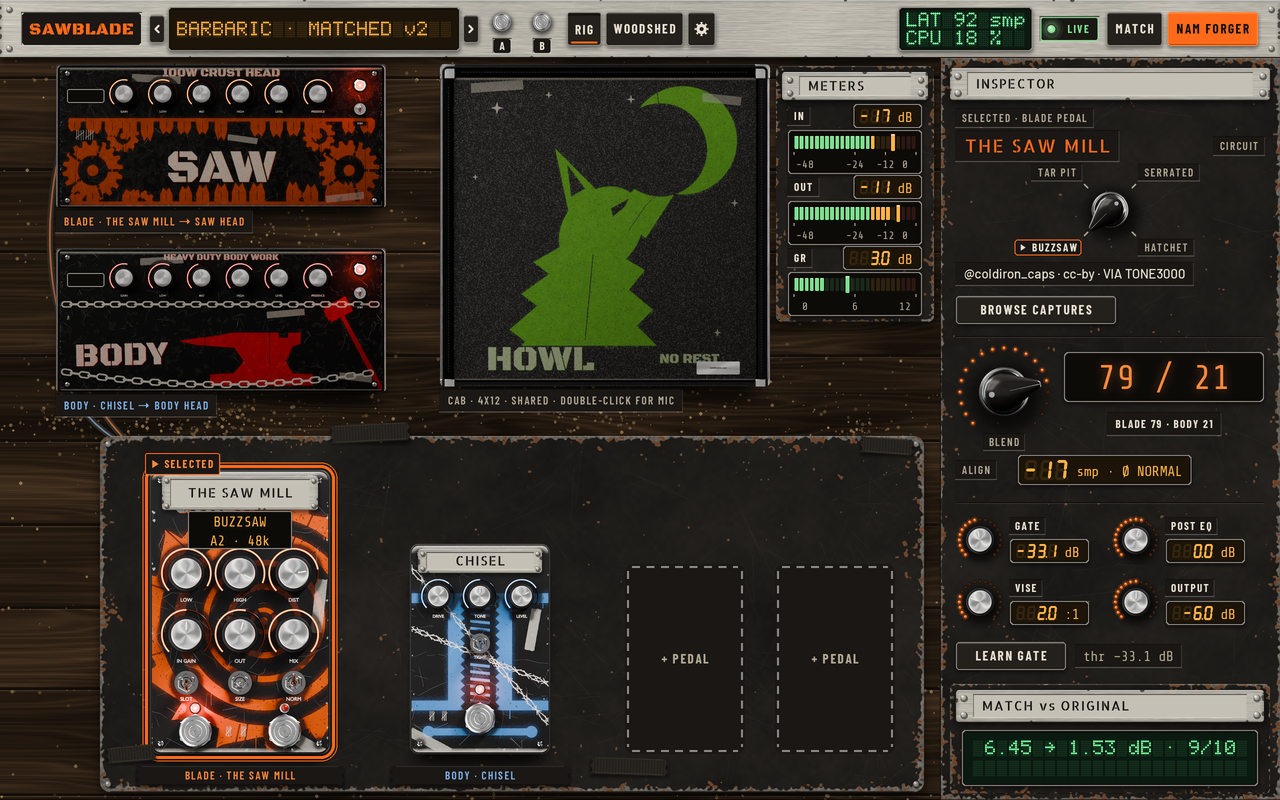
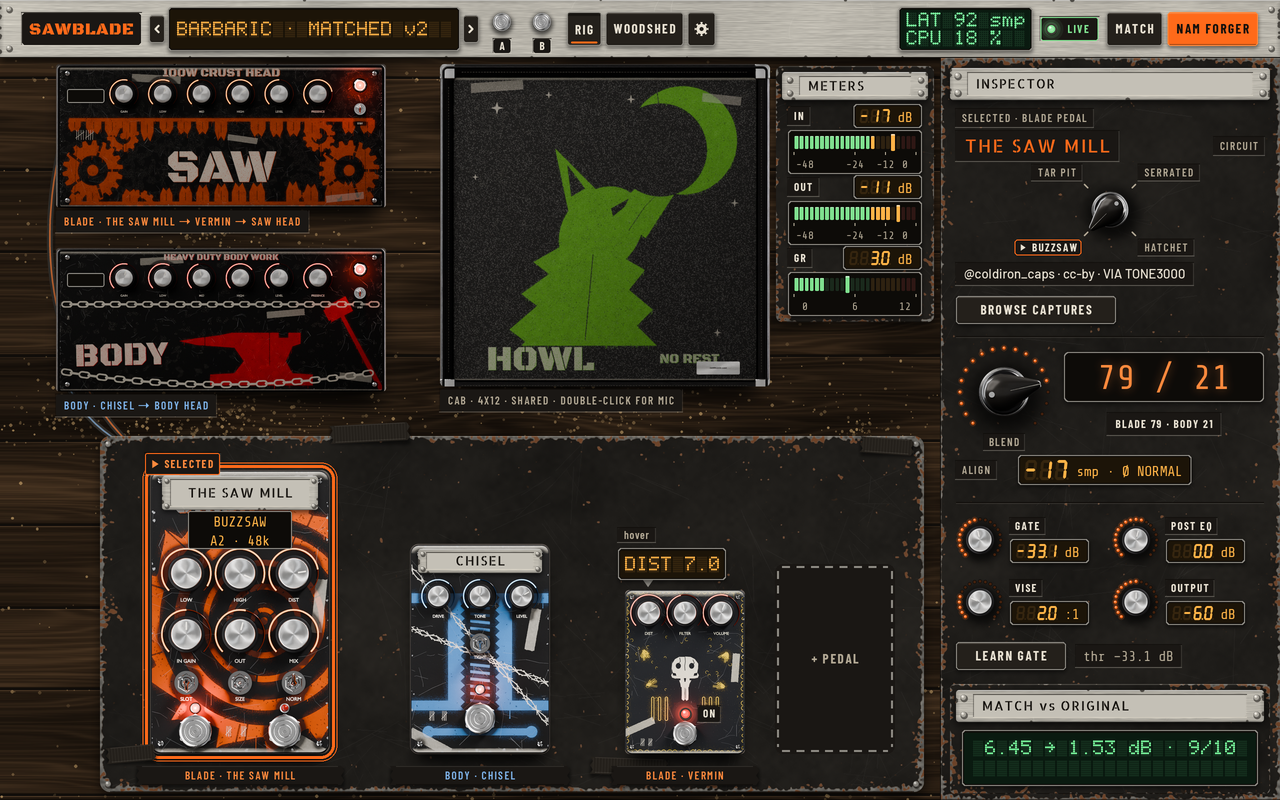
mockups: VERMIN on the 01 pedalboard (v2 and v3, both wear levels)
- assets/vermin_face.png: pedal_vermin.py ortho render at 4d179b0 (bpy 4.2.0), cropped; pinned input, command in the README
- screens_rig: screen_01_main_rig(vermin=False); only the 01 screen turns it on, so the 03-08 backdrops are unchanged
- VERMIN sits in the first empty slot with a BLADE · VERMIN tape label and the amp-head label BLADE · THE SAW MILL → VERMIN → SAW HEAD
- v3: glowing LED lamp with ON and a hover tooltip (DIST 7.0 dot-matrix) with a hover caption
- exactly four PNGs change (01 in each set); README updated

Claude-Session: https://claude.ai/code/session_01Xtcva4Boag1J55QcGzGRmV

Changed region(s): [[0.4688, 0.6562, 0.5938, 1.0], [0.1562, 0.25, 0.25, 0.3125]]

diff --git a/design/mockups/workshop/screens_rig.py b/design/mockups/workshop/screens_rig.py
@@ -39,7 +39,8 @@ def pedal_face(cv, name, crop, x, y, w, plate_text, plate_rect, oled_rect=None, 
     rect = (x, y, x + w, y + h)
     cv.shadow((x + 6, y + 10, x + w - 6, y + h), 10, (0, 10), 14, 0.8)
     cv.sprite(spr, x + w / 2.0, y + h / 2.0)
-    ws.nameplate(cv, (x + plate_rect[0], y + plate_rect[1], x + plate_rect[2], y + plate_rect[3]), plate_text)
+    if plate_text:
+        ws.nameplate(cv, (x + plate_rect[0], y + plate_rect[1], x + plate_rect[2], y + plate_rect[3]), plate_text)
     if oled_rect:
         ws.oled(cv, (x + oled_rect[0], y + oled_rect[1], x + oled_rect[2], y + oled_rect[3]), oled_lines, size=oled_size)
     if selected:
@@ -63,7 +64,32 @@ def meters_panel(cv, rect, key='meters'):
     ws.led_meter(cv, (ix0, y, ix1, y + 68), 'GR', 3.0, 5.5, ('3.0', 'dB', 4), lo=0.0, hi=12.0, ticks=(0, 6, 12), stack=True)
 
 
-def screen_01_main_rig():
+VERMIN_PNG = os.path.join(HERE, 'assets', 'vermin_face.png')      # pinned Blender render (448 x 613), see the README
+VERMIN_LED = (226.0, 462.0)       # LED and DIST knob centres in that image's pixels
+VERMIN_DIST = (86.0, 81.0)
+
+
+def vermin_pedal(cv, x, bottom, w=112):
+    """Screen 01 only: VERMIN (rat-style distortion) from the pinned render, framed like the other pedals, with its path label.
+    v3 adds a glowing LED lamp with its word and a hover tooltip (dot-matrix value) on the DIST knob.  Returns the pedal rect."""
+    spr = ws.sprite_image(VERMIN_PNG, w, round_px=22)
+    h = spr.height / ws.S
+    y = bottom - h
+    k = w / 448.0
+    pedal_face(cv, VERMIN_PNG, None, x, y, w, None, None)
+    ws.gaffer_tape(cv, (x - 14, bottom + 12, x + w + 14, bottom + 31), 'BLADE · VERMIN', 'blade_hi')
+    if ws.is_v3():
+        lx, ly = x + VERMIN_LED[0] * k, y + VERMIN_LED[1] * k
+        ws.state_led(cv, lx - 6.5, ly, True, 'red', 'ON', r=4.5)
+        kx, ky = x + VERMIN_DIST[0] * k, y + VERMIN_DIST[1] * k
+        cap = ws.label_well(cv, (kx - 30, y - 55), 'hover', 'label_mx', h=14, pad=6)
+        tip = (kx - 30, y - 42, kx + 78, y - 10)
+        cv.poly([(kx - 5, y - 10), (kx + 5, y - 10), (kx, y - 3)], 'steel_bare')
+        ws.dm_display(cv, tip, 'DIST 7.0', h=14, tone='amber', pad=5)
+    return (x, y, x + w, bottom)
+
+
+def screen_01_main_rig(vermin=False):
     cv = ws.new_screen('01_main_rig', sawdust_n=0)
     # ---- the floor: planks + sawdust, piled against the bottoms of everything that stands on it --------------------
     amp_saw_r = (56, RIG_Y + 6, 386, RIG_Y + 6 + 143.7)
@@ -85,7 +111,8 @@ def screen_01_main_rig():
     cv.shadow((cab_r[0] + 14, cab_r[1] + 14, cab_r[2] - 14, cab_r[3]), 8, (0, 12), 20, 0.8)
     cv.sprite(ws.sprite_image('cab_4x12.png', 330, crop=CAB_CROP, round_px=8), (cab_r[0] + cab_r[2]) / 2.0, (cab_r[1] + cab_r[3]) / 2.0)
     ws.label_well(cv, (cab_r[0], cab_r[3] + 14), 'CAB · 4x12 · SHARED · DOUBLE-CLICK FOR MIC', 'label', pad=8)
-    ws.label_well(cv, (amp_saw_r[0], amp_saw_r[3] + 14), 'BLADE · THE SAW MILL → SAW HEAD', 'label', fg='blade_hi', pad=8)
+    ws.label_well(cv, (amp_saw_r[0], amp_saw_r[3] + 14), 'BLADE · THE SAW MILL → VERMIN → SAW HEAD' if vermin else 'BLADE · THE SAW MILL → SAW HEAD',
+                  'label', fg='blade_hi', pad=8)
     ws.label_well(cv, (amp_body_r[0], amp_body_r[3] + 14), 'BODY · CHISEL → BODY HEAD', 'label', fg='body', pad=8)
 
     # ---- pedalboard -------------------------------------------------------------------------------------------------
@@ -104,7 +131,10 @@ def screen_01_main_rig():
     ws.label_well(cv, (saw_x - 5, 464), '▶ SELECTED', 'label_b', fg='blade_hi', pad=7, border='blade')
     # empty slots: flat wells, dashed frames
     sy = body[3] - 190
-    ws.empty_slot(cv, (625, sy, 745, body[3]))
+    if vermin:
+        vermin_pedal(cv, 625, body[3], 120)
+    else:
+        ws.empty_slot(cv, (625, sy, 745, body[3]))
     ws.empty_slot(cv, (775, sy, 895, body[3]))
 
     # ---- v3: the meter panel on the floor right of the cab ----------------------------------------------------------------
@@ -172,4 +202,4 @@ def screen_01_main_rig():
     return cv
 
 
-SCREENS = {'01_main_rig': screen_01_main_rig}
+SCREENS = {'01_main_rig': lambda: screen_01_main_rig(vermin=True)}

diff --git a/design/mockups/workshop/README.md b/design/mockups/workshop/README.md
@@ -17,7 +17,7 @@ strong). Wear is texture only, so the flat-well rule and contrast checks are the
 | file (all four sets) | screen | shows |
 |---|---|---|
 | `png/ · png_strong/ · png_v3/ · png_v3_strong/00_style_sheet.png` | style sheet | palette with ratios, materials (worn steel, brushed alu, bench wood, sawdust, riveted plate), type, control kit, LCD / nixie, badges, frames |
-| `png/ · png_strong/ · png_v3/ · png_v3_strong/01_main_rig.png` | main rig | BLADE / BODY heads, cab, pedalboard (THE SAW MILL selected, CHISEL), inspector with circuit selector, BLEND nixie, GATE / POST EQ / VISE / OUTPUT with LCDs |
+| `png/ · png_strong/ · png_v3/ · png_v3_strong/01_main_rig.png` | main rig | BLADE / BODY heads, cab, pedalboard (THE SAW MILL selected, CHISEL, VERMIN on the BLADE path; v3 adds its lamp and a hover tooltip), inspector with circuit selector, BLEND nixie, GATE / POST EQ / VISE / OUTPUT with LCDs |
 | `png/ · png_strong/ · png_v3/ · png_v3_strong/02_top_bar.png` | top bar | five states (default, A/B slot names, UNCAL chip, OUT OF TRUE chip, WOODSHED open + MATCH 42 %) and two 2x zooms |
 | `png/ · png_strong/ · png_v3/ · png_v3_strong/03_settings_calibration.png` | Settings: INPUT CALIBRATION | UNCAL / CALIBRATED status, Scarlett 4i4 device presets (3rd Gen INST, INST + PAD, 4th Gen INST, Custom, guided; only INST levels are stored), "Input: L only (auto)" caption, Enter dBu field + LCD, input channel AUTO / L / R / MIX, CALIBRATED LEVELS toggle (BETA), learned gate floor |
 | `png/ · png_strong/ · png_v3/ · png_v3_strong/04_preset_browser.png` | preset browser | banks, categories, list (one PARSE ERROR row), info panel with captures + licences + NON-COMMERCIAL, the LEGACY LEVELS hint with USE CALIBRATED LEVELS / KEEP AS SAVED, resolve status |
@@ -86,7 +86,7 @@ text is 5.27:1 (`bone_mute` on `well_raised`, disabled / tertiary text); primary
 | button | #8f8777 | #151210 | 5.24:1 ok | 4.5 | 13 | 1 | 07 |
 | button | blade_hi | well_raised | 6.90:1 ok | 4.5 | 13 | 2 | 03 04 |
 | button | bone | well_raised | 12.43:1 ok | 4.5 | 13 | 137 | 00 01 02 03 04 05 06 07 08 09 |
-| button | bone_dim | well | 7.67:1 ok | 4.5 | 13 | 12 | 01 03 08 |
+| button | bone_dim | well | 7.67:1 ok | 4.5 | 13 | 11 | 01 03 08 |
 | button | bone_mute | well_raised | 5.27:1 ok | 4.5 | 13 | 1 | 00 |
 | button_ink | bone_mute | well_raised | 5.27:1 ok | 4.5 | 13 | 1 | 00 |
 | button_ink | ink | alert | 6.72:1 ok | 4.5 | 13 | 4 | 00 04 09 |
@@ -94,7 +94,7 @@ text is 5.27:1 (`bone_mute` on `well_raised`, disabled / tertiary text); primary
 | label | #cc6e31 | #151210 | 5.19:1 ok | 4.5 | 11 | 1 | 07 |
 | label | alert | well | 6.38:1 ok | 4.5 | 11 | 1 | 00 |
 | label | blade | well | 6.23:1 ok | 4.5 | 11 | 1 | 00 |
-| label | blade_hi | well | 7.61:1 ok | 4.5 | 11 | 4 | 00 01 09 |
+| label | blade_hi | well | 7.61:1 ok | 4.5 | 11 | 5 | 00 01 09 |
 | label | body | well | 8.18:1 ok | 4.5 | 11 | 3 | 00 01 |
 | label | bone | well | 13.71:1 ok | 4.5 | 11 | 31 | 00 04 |
 | label | bone_dim | well | 7.67:1 ok | 4.5 | 11 | 119 | 00 01 03 04 05 06 07 08 |
@@ -169,15 +169,15 @@ rows with a hex background below). Ghost vs glass is <= 1.25:1 (amber 1.23:1, gr
 | button | #8f8777 | #151210 | 5.24:1 ok | 4.5 | 13 | 1 | 07 |
 | button | blade_hi | well_raised | 6.90:1 ok | 4.5 | 13 | 2 | 03 04 |
 | button | bone | well_raised | 12.43:1 ok | 4.5 | 13 | 136 | 00 01 02 03 04 05 06 07 08 09 |
-| button | bone_dim | well | 7.67:1 ok | 4.5 | 13 | 12 | 01 03 08 |
+| button | bone_dim | well | 7.67:1 ok | 4.5 | 13 | 11 | 01 03 08 |
 | button_ink | ink | alert | 6.72:1 ok | 4.5 | 13 | 3 | 00 04 09 |
 | button_ink | ink | blade | 6.57:1 ok | 4.5 | 13 | 23 | 00 01 02 03 04 05 06 07 08 09 |
-| dotmatrix | lcd_amber | #533a17 | 5.94:1 ok | 4.5 | 11,14 | 24 | 00 01 02 03 04 05 06 07 08 09 |
+| dotmatrix | lcd_amber | #533a17 | 5.94:1 ok | 4.5 | 11,14 | 25 | 00 01 02 03 04 05 06 07 08 09 |
 | dotmatrix | lcd_green | #244d31 | 7.66:1 ok | 4.5 | 11,14 | 43 | 00 01 02 03 04 05 06 07 08 09 |
 | label | #cc6e31 | #151210 | 5.19:1 ok | 4.5 | 11 | 1 | 07 |
 | label | alert | well | 6.38:1 ok | 4.5 | 11 | 1 | 00 |
 | label | blade | well | 6.23:1 ok | 4.5 | 11 | 1 | 00 |
-| label | blade_hi | well | 7.61:1 ok | 4.5 | 11 | 4 | 00 01 09 |
+| label | blade_hi | well | 7.61:1 ok | 4.5 | 11 | 5 | 00 01 09 |
 | label | body | well | 8.18:1 ok | 4.5 | 11 | 3 | 00 01 |
 | label | bone | well | 13.71:1 ok | 4.5 | 11 | 34 | 00 04 |
 | label | bone_dim | well | 7.67:1 ok | 4.5 | 11 | 104 | 00 01 02 03 04 05 06 07 08 |
@@ -191,7 +191,7 @@ rows with a hex background below). Ghost vs glass is <= 1.25:1 (amber 1.23:1, gr
 | label_b | blade | well | 6.23:1 ok | 4.5 | 11 | 2 | 04 |
 | label_b | blade_hi | well | 7.61:1 ok | 4.5 | 11 | 22 | 01 02 06 09 |
 | label_b | body | well | 8.18:1 ok | 4.5 | 11 | 5 | 02 04 05 06 |
-| label_b | bone | well | 13.71:1 ok | 4.5 | 11 | 129 | 00 01 02 03 04 05 06 07 08 09 |
+| label_b | bone | well | 13.71:1 ok | 4.5 | 11 | 130 | 00 01 02 03 04 05 06 07 08 09 |
 | label_b | bone | well_raised | 12.43:1 ok | 4.5 | 11 | 6 | 00 04 08 |
 | label_b | bone_dim | well | 7.67:1 ok | 4.5 | 11 | 6 | 00 04 05 08 |
 | label_b | ok | well | 11.02:1 ok | 4.5 | 11 | 14 | 01 02 03 04 05 06 07 08 09 |
@@ -203,7 +203,7 @@ rows with a hex background below). Ghost vs glass is <= 1.25:1 (amber 1.23:1, gr
 | label_ink | ink | bone_dim | 8.09:1 ok | 4.5 | 11 | 2 | 04 06 |
 | label_ink | ink | lcd_amber | 10.57:1 ok | 4.5 | 11 | 4 | 08 09 |
 | label_ink | ink | ok | 11.62:1 ok | 4.5 | 11 | 1 | 05 |
-| label_mx | bone_dim | well | 7.67:1 ok | 4.5 | 11 | 1 | 02 |
+| label_mx | bone_dim | well | 7.67:1 ok | 4.5 | 11 | 2 | 01 02 |
 | label_mx_b | bone | well | 13.71:1 ok | 4.5 | 11 | 3 | 05 09 |
 | lcd | #cc8f39 | #2a1e0c | 5.86:1 ok | 4.5 | 14 | 3 | 07 |
 | lcd | lcd_amber | #35250f | 8.29:1 ok | 4.5 | 14,16,18,20,22,26 | 51 | 00 01 03 05 07 08 |
@@ -226,7 +226,7 @@ rows with a hex background below). Ghost vs glass is <= 1.25:1 (amber 1.23:1, gr
 | section_mixed | ink | alu_well | 10.36:1 ok | 4.5 | 13 | 4 | 01 03 07 08 |
 | title | bone | well | 13.71:1 ok | 3.0 | 22 | 1 | 03 |
 
-1088 strings measured on 10 screens: all pass WCAG 2.x AA
+1091 strings measured on 10 screens: all pass WCAG 2.x AA
 
 ### v3 strong
 
@@ -278,3 +278,17 @@ Blender (bpy 4.2.0, Cycles) on 2026-10-08, cropped to the object from the full 1
 Cycles output is not bit-reproducible across machines, so the committed PNG is the pinned input and the mockup render stays
 deterministic from it. The mockup's overlays (nameplate, LCDs, wells) are positioned in that image's pixel coordinates
 (`DECK_NATIVE` and `D()` in `screens_tools.py`), so re-rendering the deck needs the overlay positions re-checked.
+
+## VERMIN face asset (pinned input, screen 01 only)
+
+`assets/vermin_face.png` (448 x 613, 0.4 MB) is the VERMIN pedal (rat-style distortion, v0.9) rendered with Blender (bpy 4.2.0,
+Cycles) on 2026-10-08 from `design/render/pedal_vermin.py` as it exists at commit `4d179b0` (that script is not in this branch; it
+was exported to a scratch directory with `git archive 4d179b0 design/render | tar -x -C <scratch>/v09`). Command, run from
+`<scratch>/v09/design/render`:
+
+    nice python pedal_vermin.py --mode ortho --out <scratch dir> --scale 60 --samples 64
+
+The 660 x 900 frame was cropped to the pedal body (box 32,42 - 628,858) and downsampled to 448 px wide. As with the deck,
+Cycles output is not bit-reproducible across machines, so the committed PNG is the pinned input and the mockup render stays
+deterministic from it. `screens_rig.screen_01_main_rig(vermin=True)` is used by `01_main_rig` only; the backdrops of 03-08 call it
+without VERMIN and are unchanged.
